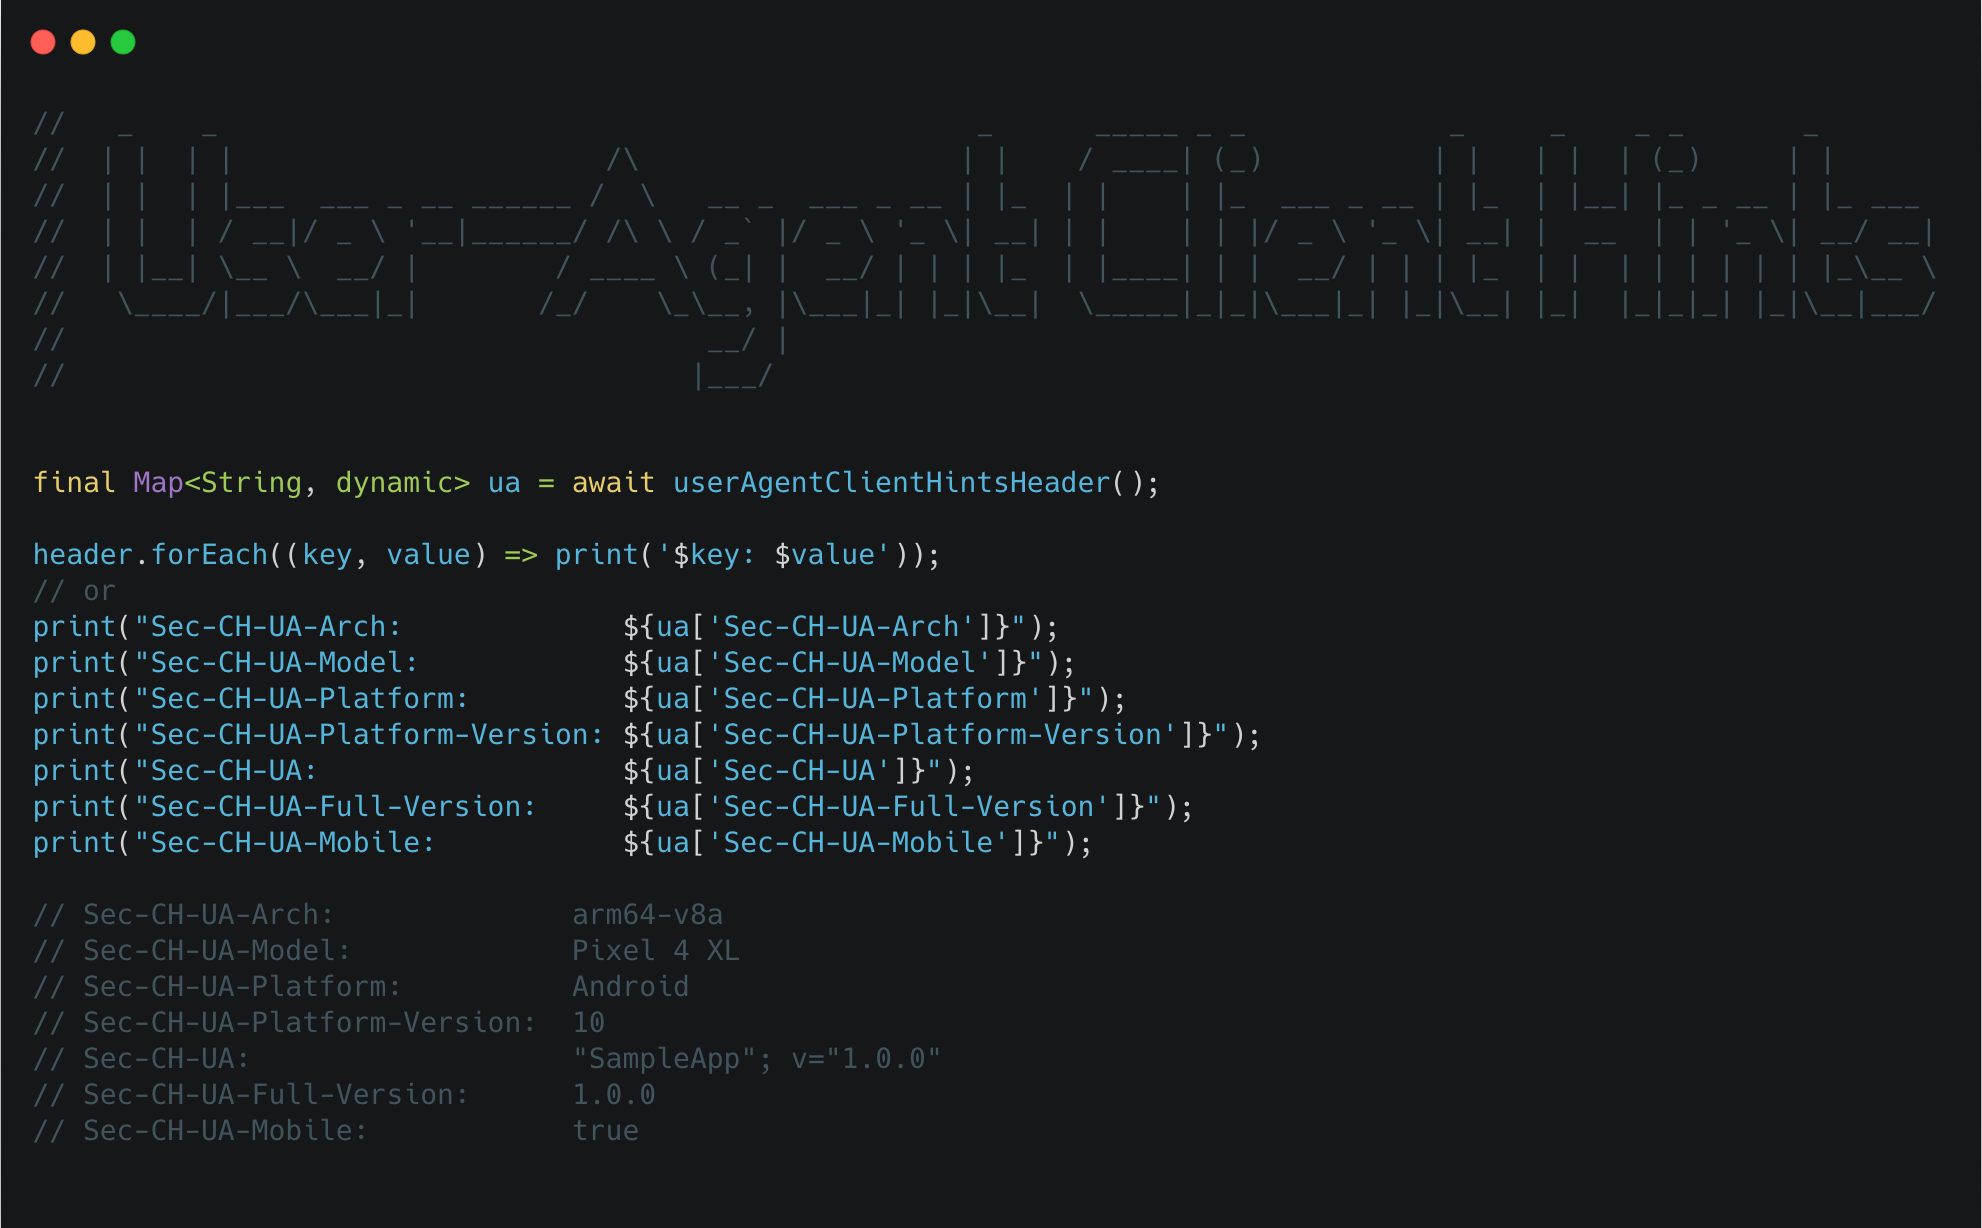
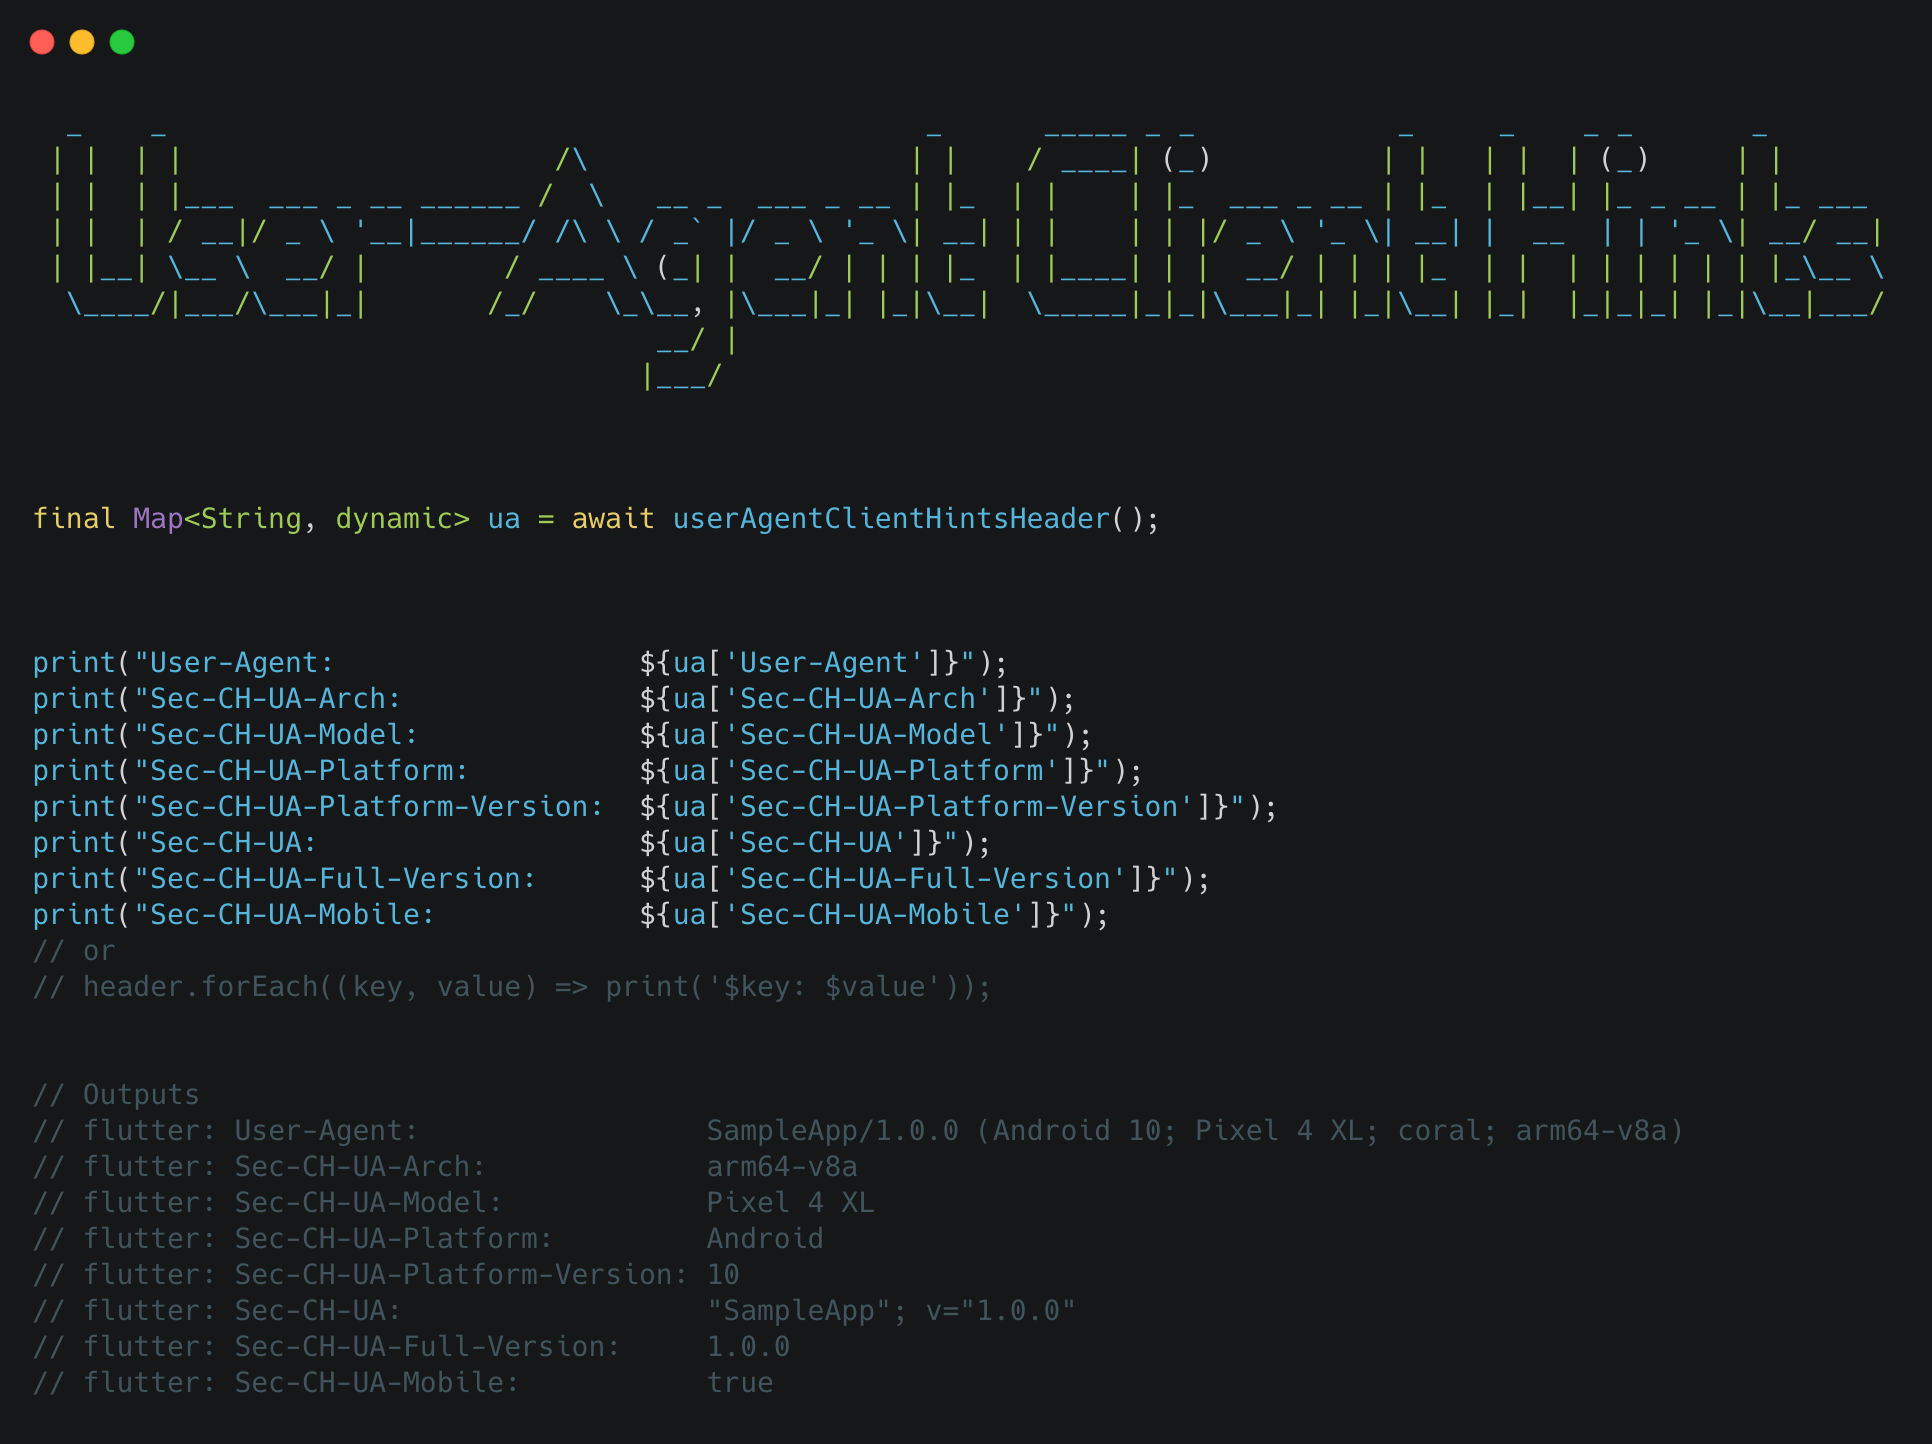
update sample

diff --git a/example/lib/main.dart b/example/lib/main.dart
@@ -6,9 +6,9 @@ void main() async {
   // For Demo
   WidgetsFlutterBinding.ensureInitialized();
 
-  final ua = await userAgent();
-  final uaData = await userAgentData();
-  final header = await userAgentClientHintsHeader();
+  final String ua = await userAgent();
+  final UserAgentData uaData = await userAgentData();
+  final Map<String, dynamic> header = await userAgentClientHintsHeader();
 
   print('## User-Agent ##');
   print('User-Agent: $ua');
@@ -29,6 +29,7 @@ void main() async {
   //
   print('## User-Agent Client Hints ##');
   // header.forEach((key, value) => print('$key: $value'));
+  print("User-Agent :${header['User-Agent']}");
   print("Sec-CH-UA-Arch :${header['Sec-CH-UA-Arch']}");
   print("Sec-CH-UA-Model :${header['Sec-CH-UA-Model']}");
   print("Sec-CH-UA-Platform :${header['Sec-CH-UA-Platform']}");
